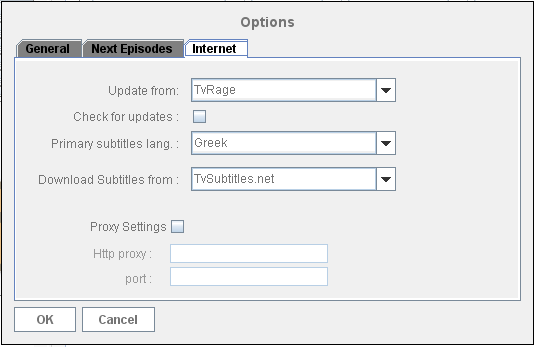
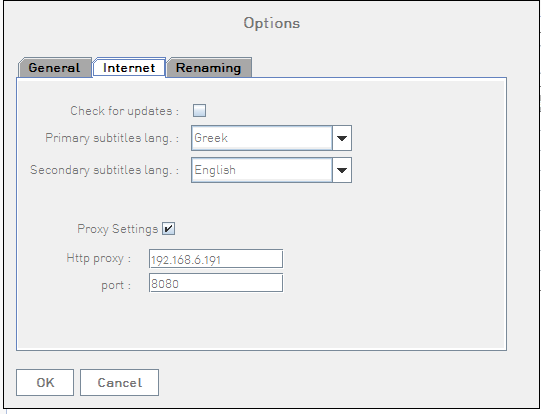
Updated help

diff --git a/src/help/html/internet_options.html b/src/help/html/internet_options.html
@@ -3,25 +3,19 @@
   <tr><th>Internet Options</th></tr>
   <tr><th><img src="../images/internet_options.png"> </th></tr>
   <tr><td>
+      The following options are available in Internet Options<br />
       <ul>
-        <li>
-          <b>Update site - </b>
-          You can choose the site from which you will get updates for your series episodes
-          when using [<span class="link">Internet Update</span>].<br>
-          This can be the EpGuides or the TvRage webpage.<br />
-        </li>
         <li>
           <b>Check for updates - </b>
           If the application should check for updates on start up.
         </li>
         <li>
-          <b>Primary subtitles language -</b>
-          Which language should be queried first when downloading subtitles.
+          <b>Primary subtitle language - </b>
+          The primary language to search when downloading subtitles
         </li>
         <li>
-          <b>Download subtitles from -</b>
-          From which site should subtitles been downloaded. This can be tvsubtitles.net or
-          subtitleonline.com
+          <b>Secondary subtitle language - </b>
+          The secondary language to search when downloading subtitles
         </li>
         <li>
           <b>Proxy settings - </b>

diff --git a/src/help/html/internet_update.html b/src/help/html/internet_update.html
@@ -1,14 +1,13 @@
 <link rel="stylesheet" href="styles.css" type="text/css" />
 <table align="center" class="mainTable">
   <tr><th>Internet Update</th></tr>
-  <!--<tr><th><img src="../images/internet_update.png"> </th></tr>-->
   <tr><td>
       Internet Update updates all series episodes information from
-      http://www.tvrage.com or http://www.epguides.com. (This is set in the [<span class="link">Options</span>].)<br>
-      If using tvrage you must provide the series ID.<br>
+      http://www.tvrage.com or http://www.epguides.com.<br>
+      If using tvrage you must provide the series ID in the
+      [<span class="link">Series Administration</span>] panel.<br>
       The series ID can be obtained by searching tvRage series the first time you try to
       update a series or when you add a new series in the application.<br>
-  <tr><th><img src="../images/getTvrageId.png"> </th></tr>
   <tr><td>Searching will provide some results from which you must choose the right one</td></tr>
   <tr><th><img src="../images/searchTvRageSeries.png"> </th></tr>
   <tr><td>Also if your computer is behind a proxy server you have to provide the proxy address, port

diff --git a/src/help/html/general_options.html b/src/help/html/general_options.html
@@ -32,11 +32,19 @@
         </li>
         <li>
           <b>Set Skin Color </b> -
-          Opens up a color chooser to choose the color of the skin.
+          Check the chackbox and click on the "Set Color" button to open
+          up a color chooser and choose the color of the skin.
         </li>
         <li>
           <b>Font </b> -
-          Select the font and the size to use in the application. A preview of the current selected font is displayed
+          Select the font and the size to use in the application.
+          A preview of the current selected font is displayed
+        </li>
+        <li>
+          <b>Auto update </b> -
+          When enabled whenever you choose a series from the series panel a
+          scan in the series local directory is performed and video and subtitle 
+          statuses are updated
         </li>
       </ul>
   </td></tr>

diff --git a/src/help/html/options.html b/src/help/html/options.html
@@ -3,11 +3,11 @@
   <tr><th>Options</th></tr>
   <tr><th><img src="../images/options.png"> </th></tr>
   <tr><td>
-      The options dialog consists of a tabbed panel with 2 tabs:<br>
+      The options dialog consists of a tabbed panel with 3 tabs:<br>
         <ol>
           <li>The [<span class="link">General Options</span>]</li>
-          <li>The [<span class="link">Next Episodes Options</span>]</li>
           <li>The [<span class="link">Internet Options</span>]</li>
+          <li>The [<span class="link">Renaming Options</span>]</li>
         </ol>
         The options are saved in the MySeries.ini file.
   </td></tr>

diff --git a/src/help/html/renaming_options.html b/src/help/html/renaming_options.html
@@ -1,0 +1,16 @@
+<link rel="stylesheet" href="styles.css" type="text/css" />
+<table align="center" class="mainTable">
+  <tr><th>Renaming Options</th></tr>
+  <tr><th><img src="../images/renaming_options.png"> </th></tr>
+  <tr><td>
+     In renaming options you set the template for renaming video and subtitles files.<br />
+     There are 3 options:
+     <ol>
+       <li>The season seperator</li>
+       <li>The episode seperator</li>
+       <li>The title seperator</li>
+     </ol>
+    </td></tr>
+</table>
+
+

diff --git a/src/help/html/update_files.html b/src/help/html/update_files.html
@@ -1,0 +1,9 @@
+<link rel="stylesheet" href="styles.css" type="text/css" />
+<table class="mainTable">
+  <tr><th colspan="2">Update Files</th></tr>
+  <tr><td>
+    File updating scans all the series' local folders and updates the video and
+    the subtitles statuses. <br />To use this you should have the automatic file updating
+    option in [<span class="link">General Options</span>] enabled
+  </td></tr>
+</table>
